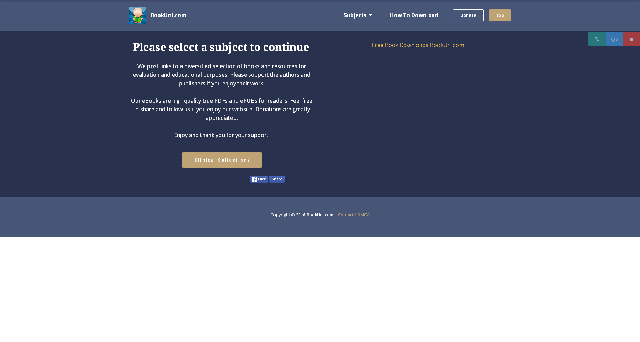
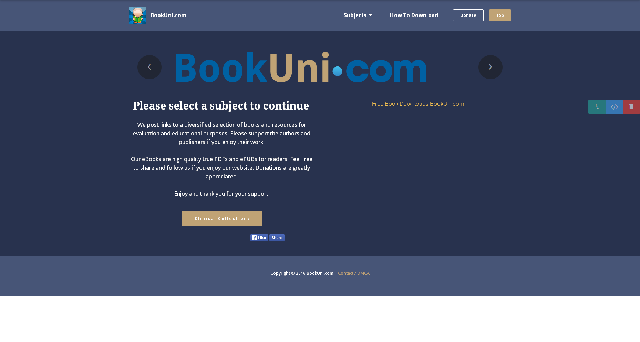
update
update

diff --git a/assets/bootstrap-carousel-swipe/bootstrap-carousel-swipe.js b/assets/bootstrap-carousel-swipe/bootstrap-carousel-swipe.js
@@ -1,0 +1,212 @@
+/* source: https://github.com/avinoamr/bootstrap-carousel-swipe */
+/* changes from Mobirise team */
++function ($) {
+    'use strict';
+
+    if ( !$.fn.carousel ) {
+        return
+    }
+
+    // CAROUSEL CLASS DEFINITION
+    // =========================
+
+    var CarouselSwipe = function(element) {
+        this.$element    = $(element)
+        this.carousel    = this.$element.data('bs.carousel')
+        this.options     = $.extend({}, CarouselSwipe.DEFAULTS, this.carousel.options)
+        this.startX      =
+        this.startY      =
+        this.startTime   =
+        this.cycling     =
+        this.$active     =
+        this.$items      =
+        this.$next       =
+        this.$prev       = 
+        this.dx          = null
+
+        this.$element
+            .on('touchstart', $.proxy(this.touchstart,this))
+            .on('touchmove', $.proxy(this.touchmove,this))
+            .on('touchend', $.proxy(this.touchend,this))
+    }
+
+    CarouselSwipe.DEFAULTS = {
+        swipe: 50 // percent per second
+    }
+
+    CarouselSwipe.prototype.touchstart = function(e) {
+        if (!this.options.swipe) return;
+        var touch = e.originalEvent.touches ? e.originalEvent.touches[0] : e
+        this.dx = 0
+        this.startX = touch.pageX
+        this.startY = touch.pageY
+        this.cycling = null
+        this.width = this.$element.width()
+        this.startTime = e.timeStamp
+    }
+
+    CarouselSwipe.prototype.touchmove = function(e) {
+        if (!this.options.swipe) return;
+        var touch = e.originalEvent.touches ? e.originalEvent.touches[0] : e
+        var dx = touch.pageX - this.startX
+        var dy = touch.pageY - this.startY
+        if (Math.abs(dx) < Math.abs(dy)) return; // vertical scroll
+
+        if ( this.cycling === null ) {
+            this.cycling = !!this.carousel.interval
+            this.cycling && this.carousel.pause()
+        }
+
+        e.preventDefault()
+        this.dx = dx / (this.width || 1) * 100
+        this.swipe(this.dx)
+    }
+
+    CarouselSwipe.prototype.touchend = function(e) {
+        if (!this.options.swipe) return;
+        if (!this.$active) return; // nothing moved
+        var all = $()
+            .add(this.$active).add(this.$prev).add(this.$next)
+            .carousel_transition(true)
+
+        var dt = (e.timeStamp - this.startTime) / 1000
+        var speed = Math.abs(this.dx / dt) // percent-per-second
+        if (this.dx > 40 || (this.dx > 0 && speed > this.options.swipe)) {
+            this.carousel.prev()
+        } else if (this.dx < -40 || (this.dx < 0 && speed > this.options.swipe)) {
+            this.carousel.next();
+        } else {
+            this.$active
+                .one($.support.transition.end, function () {
+                    all.removeClass('prev next')
+                })
+                .emulateTransitionEnd(this.$active.css('transition-duration').slice(0, -1) * 1000)
+        }
+
+        all.carousel_offset(false);
+        this.cycling && this.carousel.cycle()
+        this.$active = null // reset the active element
+    }
+
+    CarouselSwipe.prototype.swipe = function(percent) {
+        var $active = this.$active || this.getActive()
+        if (percent < 0) {
+            this.$prev
+                .carousel_offset(false)
+                .removeClass('prev')
+                .carousel_transition(true)
+            if (!this.$next.length || this.$next.hasClass('active')) return
+            this.$next
+                .carousel_transition(false)
+                .addClass('next')
+                .carousel_offset(percent + 100)
+        } else {
+            this.$next
+                .carousel_offset(false)
+                .removeClass('next')
+                .carousel_transition(true)
+            if (!this.$prev.length || this.$prev.hasClass('active')) return
+            this.$prev
+                .carousel_transition(false)
+                .addClass('prev')
+                .carousel_offset(percent - 100)
+        }
+
+        $active
+            .carousel_transition(false)
+            .carousel_offset(percent)
+    }
+
+    CarouselSwipe.prototype.getActive = function() {
+        this.$active = this.$element.find('.item.active')
+        this.$items = this.$active.parent().children()
+
+        this.$next = this.$active.next()
+        if (!this.$next.length && this.options.wrap) {
+            this.$next = this.$items.first();
+        }
+
+        this.$prev = this.$active.prev()
+        if (!this.$prev.length && this.options.wrap) {
+            this.$prev = this.$items.last();
+        }
+
+        return this.$active;
+    }
+
+    // CAROUSEL PLUGIN DEFINITION
+    // ==========================
+
+    var old = $.fn.carousel
+    $.fn.carousel = function() {
+        old.apply(this, arguments);
+        return this.each(function () {
+            var $this   = $(this)
+            var data    = $this.data('bs.carousel.swipe')
+            if (!data) $this.data('bs.carousel.swipe', new CarouselSwipe(this))
+        })
+    }
+
+    $.extend($.fn.carousel,old);
+
+    $.fn.carousel_transition = function(enable) {
+        enable = enable ? '' : 'none';
+        return this.each(function() {
+            $(this)
+                .css('-webkit-transition', enable)
+                .css('transition', enable)
+        })
+    };
+
+
+    var support3dtransform = (function() {
+        if (!window.getComputedStyle) {
+            return false;
+        }
+
+        var el = document.createElement('p'), 
+            has3d,
+            transforms = {
+                'webkitTransform':'-webkit-transform',
+                'OTransform':'-o-transform',
+                'msTransform':'-ms-transform',
+                'MozTransform':'-moz-transform',
+                'transform':'transform'
+            };
+
+        // Add it to the body to get the computed style.
+        document.body.insertBefore(el, null);
+
+        for (var t in transforms) {
+            if (el.style[t] !== undefined) {
+                el.style[t] = "translate3d(1px,1px,1px)";
+                has3d = window.getComputedStyle(el).getPropertyValue(transforms[t]);
+            }
+        }
+
+        document.body.removeChild(el);
+
+        return (has3d !== undefined && has3d.length > 0 && has3d !== "none");
+    }());
+
+    $.fn.carousel_offset = function(value) {
+        return this.each(function() {
+            if(value) {
+                if(support3dtransform) {
+                    $(this).css('transform', 'translate3d(' + value + '%, 0, 0)')
+                } else {
+                    $(this).css('left', value + '%')
+                }
+            } else {
+                $(this).css({
+                    transform: '',
+                    left: ''
+                })
+            }
+        })
+    };
+
+    // init carousels
+    $('.carousel').carousel();
+
+}(jQuery);

diff --git a/cc/essentials of skeletal radiology.html b/cc/essentials of skeletal radiology.html
@@ -5,8 +5,8 @@
   <meta http-equiv="X-UA-Compatible" content="IE=edge">
   <meta name="viewport" content="width=device-width, initial-scale=1">
   <link rel="shortcut icon" href="/assets/images/bookuniavatar.png" type="image/x-icon">
-  <meta name="description" content=" - Free Book Download Links and Amazon Links. PDF and ePUB formats for your reading pleasure!">
-  <title> - BookUni.com</title>
+  <meta name="description" content="Essentials of Skeletal Radiology - Free Book Download Links and Amazon Links. PDF and ePUB formats for your reading pleasure!">
+  <title>Essentials of Skeletal Radiology - BookUni.com</title>
   <link rel="stylesheet" href="https://fonts.googleapis.com/css?family=Lora:400,700,400italic,700italic&amp;subset=latin">
   <link rel="stylesheet" href="https://fonts.googleapis.com/css?family=Montserrat:400,700">
   <link rel="stylesheet" href="https://fonts.googleapis.com/css?family=Raleway:400,100,200,300,500,600,700,800,900">
@@ -20,7 +20,7 @@
   <link rel="stylesheet" href="/assets/mobirise/css/mbr-additional.css" type="text/css">
   <link rel="stylesheet" href="/add/mixitup.css">
 <script src="/add/pre.js"></script>
-<meta property="og:image" content="" />
+<meta property="og:image" content="https://images-na.ssl-images-amazon.com/images/I/51M70nXmMPL.jpg" />
 </head>
 <body>
 <div include-html="/add/header.html"></div>
@@ -29,19 +29,17 @@
         <div class="row">
             <div class="mbr-table-md-up">
                 <div class="mbr-table-cell mbr-valign-top col-md-2 text-xs-center">
-                    <div class="mbr-figure"><img src="Img" alt=""></div>
-                    <small class="mbr-section-subtitle" style="margin-bottom: 20px">Date</small>
+                    <div class="mbr-figure"><img src="https://images-na.ssl-images-amazon.com/images/I/51M70nXmMPL.jpg" alt="Essentials of Skeletal Radiology (3rd 2004) [Yochum & Rowe]"></div>
+                    <small class="mbr-section-subtitle" style="margin-bottom: 20px">26 July 2004</small>
                     <div include-html="/add/left.html"></div>
                 </div>
                 <div class="mbr-table-cell mbr-valign-top col-md-7">
-                    <h1 class="mbr-section-title display-2">Title</h1>
-                    <small class="mbr-section-subtitle" style="margin-bottom: 20px">Authors</small>
-                    <h3>Heading</h3>
-                    <p>Text</p>
-                    <ul><li>Bullets</li></ul>
-                    <ol><li>Numbers</li></ol>
+                    <h1 class="mbr-section-title display-2">Essentials of Skeletal Radiology</h1>
+                    <small class="mbr-section-subtitle" style="margin-bottom: 20px">Yochum & Rowe</small>
+                    <p>The fully updated Third Edition of this successful text covers the full spectrum of radiology, continuing its tradition of excellence. Useful both as a learning tool across the chiropractic curriculum and as a reference and clinical aid to practitioners, the text helps readers distinguish key radiologic features—invaluable in clinical decision making.</p>
+                    <p>This edition incorporates the latest imaging technologies—including SPECT bone scan, diagnostic ultrasound, helical 3D CT, and MRI—and features more than 4,500 images obtained with state-of-the-art techniques. Coverage includes new chapters on soft-tissue imaging and paraspinal abnormalities and more information on sports-related injuries.</p>
                     <div include-html="/add/middle.html"></div>
-                    <div class="text-xs-center"><a class="btn btn-warning" href="" target="_blank">Buy on Amazon</a> <a class="btn btn-primary" href="" target="_blank">Download PDF</a> <a class="btn btn-info" href="" target="_blank">Password Link</a></div>
+                    <div class="text-xs-center"><a class="btn btn-warning" href="https://www.amazon.com/dp/0781739462" target="_blank">Buy on Amazon</a> <a class="btn btn-primary" href="" target="_blank">Read Book</a></div>
                 </div>
                 <div class="mbr-table-cell mbr-valign-top col-md-3 text-md-left text-xs-center" include-html="/add/right.html"></div>
             </div>

diff --git a/subject/clinical collections.html b/subject/clinical collections.html
@@ -5,8 +5,8 @@
   <meta http-equiv="X-UA-Compatible" content="IE=edge">
   <meta name="viewport" content="width=device-width, initial-scale=1">
   <link rel="shortcut icon" href="/assets/images/bookuniavatar.png" type="image/x-icon">
-  <meta name="description" content=" - Free Book Download Links and Amazon Links. PDF and ePUB formats for your reading pleasure!">
-  <title> - BookUni.com</title>
+  <meta name="description" content="Clinical Collections - Free Book Download Links and Amazon Links. PDF and ePUB formats for your reading pleasure!">
+  <title>Clinical Collections - BookUni.com</title>
   <link rel="stylesheet" href="https://fonts.googleapis.com/css?family=Lora:400,700,400italic,700italic&amp;subset=latin">
   <link rel="stylesheet" href="https://fonts.googleapis.com/css?family=Montserrat:400,700">
   <link rel="stylesheet" href="https://fonts.googleapis.com/css?family=Raleway:400,100,200,300,500,600,700,800,900">
@@ -29,7 +29,7 @@
         <div class="row">
             <div class="mbr-table-md-up">
               <div class="mbr-table-cell mbr-right-padding-md-up col-md-8 text-xs-center text-md-left">
-                  <h3 class="mbr-info-title mbr-section-title display-2">Subject</h3>
+                  <h3 class="mbr-info-title mbr-section-title display-2">Clinical Collections</h3>
                   <h2 class="mbr-info-subtitle mbr-section-subtitle">An interactive listing of books and resources are listed below. We recommend an up to date desktop internet browser. New additions are posted on our social media pages.</h2>
               </div>
               <div class="mbr-table-cell col-md-4">
@@ -45,6 +45,10 @@
 <div class="info-up">Loading...</div>
 <div id="Library" class="library">
     <div class="fail-message">Sorry! No items were found matching your search.</div>
+    <div class="mix" data-title="Essentials of Skeletal Radiology" data-year="20040726">
+        <img class="img" src="https://images-na.ssl-images-amazon.com/images/I/51M70nXmMPL.jpg" alt="Essentials of Skeletal Radiology (3rd 2004) [Yochum & Rowe]"/>
+        <p class="title">Essentials of Skeletal Radiology<br>(3rd 2004)<br>[Yochum & Rowe]</p>
+        <a class="link" href="/cc/essentials of skeletal radiology.html" target="_blank">Read More</a></div>
     <div class="gap"></div>
     <div class="gap"></div>
     <div class="gap"></div>

diff --git a/index.html b/index.html
@@ -60,7 +60,35 @@
 
 </section>
 
-<div id="custom-html-1" custom-code="true"><section class="mbr-section" style="background-color: rgb(40, 50, 78); padding-top: 120px; padding-bottom: 20px;">
+<section class="mbr-slider mbr-section mbr-section__container carousel slide mbr-after-navbar" data-ride="carousel" data-keyboard="false" data-wrap="true" data-interval="5000" id="slider2-22" style="background-color: rgb(40, 50, 78); padding-top: 120px; padding-bottom: 20px;">
+    <div class=" container article-slider">
+        <div class=" row">
+            <div class=" col-xs-12">
+                
+                <div class="carousel-inner" role="listbox">
+                    <div class="mbr-section carousel-item dark center active" data-bg-video-slide="false">
+                        <div class="mbr-table-cell">
+                            
+                            <div class="container-slide">
+                                <img src="assets/images/bookunicom.png">
+                                <div class="row">
+                                    <div class="col-md-8 col-md-offset-2 text-xs-center">
+                                        
+                                        
+
+                                        
+                                    </div>
+                                </div>
+                            </div>
+                        </div>
+                    </div>
+                </div>
+            </div>
+        </div>
+    </div>
+</section>
+
+<div id="custom-html-1" custom-code="true"><section class="mbr-section" style="background-color: rgb(40, 50, 78); padding-top: 0px; padding-bottom: 20px;">
     <div class="container">
         <!-- ADs <div style="padding-bottom: 20px"></div> -->
         <div class="row">
@@ -97,6 +125,7 @@
   <script src="assets/smooth-scroll/SmoothScroll.js"></script>
   <script src="assets/dropdown/js/script.min.js"></script>
   <script src="assets/touchSwipe/jquery.touchSwipe.min.js"></script>
+  <script src="assets/bootstrap-carousel-swipe/bootstrap-carousel-swipe.js"></script>
   <script src="assets/theme/js/script.js"></script>
   
   <script>

diff --git a/contact.html b/contact.html
@@ -66,8 +66,10 @@
             <div class="col-xs-12">
                 <h1 class="mbr-section-title display-2">Stuff they make us say</h1>
                 <small class="mbr-section-subtitle" style="margin-bottom: 20px">Contact Us / Privacy Policy / DMCA | Rev: 1 Dec 2016</small>
+                <div include-html="/add/middle.html"></div>
                 <h3>Contact Us / Privacy Policy</h3>
                 <p>BookUni.com does not share personal information with third parties nor do we store any information about your visit to this website other than to analyze and optimize your content and reading experience through the use of cookies. You can turn off the use of cookies at any time by changing your specific browser settings. We are not responsible for republished content from this website on other blogs or websites without our permission. This privacy policy is subject to change without notice. If you would like to contact us or report a problem please email us at bookunisite@gmail.com or via our social media accounts.</p>
+                <div include-html="/add/middle.html"></div>
                 <h3>DMCA</h3>
                 <p>The following statements are legally binding notice of standards and practices of BookUni.com:</p>
                 <ul><li>All copyrights belong to their respective owners and are for educational purposes only.</li><li>We do not host any files on our website. We merely make an index of material that is freely available on the internet.</li><li>No copyrighted metadata is hosted on this website!<br></li></ul>
@@ -76,6 +78,7 @@
                 <p>If you have any of the above-mentioned claims, statements, or disputes, then please send the infringement notice, claim, or links to the alleged material to the following e-mail address: bookunisite@gmail.com. Please allow 5-7 business days for a response.</p>
             </div>
         </div>
+        <div include-html="/add/bottom.html"></div>
     </div>
 </section></div>
 

diff --git a/add/mixitup.js b/add/mixitup.js
@@ -22,7 +22,7 @@ $(function() {
         $('.mix').each(function() {
           $this = $("this");
           // add item to be filtered out if input text matches items inside the title   
-          if($(this).children().children('.title').text().toLowerCase().match(inputText)) {
+          if($(this).children('.title').text().toLowerCase().match(inputText)) {
             $matching = $matching.add(this);
           }
           else {

diff --git a/assets/mobirise/css/mbr-additional.css b/assets/mobirise/css/mbr-additional.css
@@ -71,6 +71,10 @@
   font-family: 'Droid Sans', sans-serif;
   font-size: 13px;
 }
+#slider2-22 .mbr-section-title,
+#slider2-22 .mbr-section-lead {
+  color: #fff;
+}
 #custom-html-1 {
   
   
